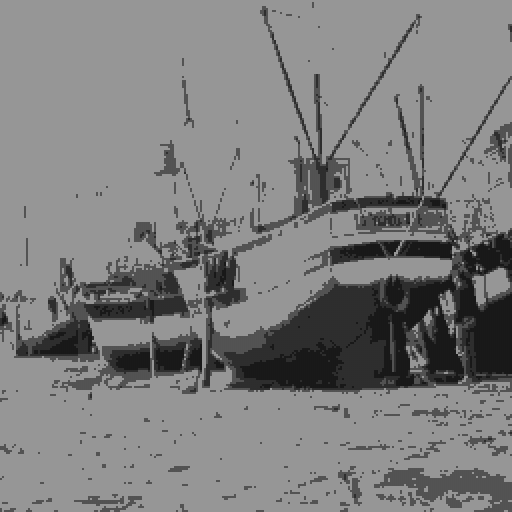
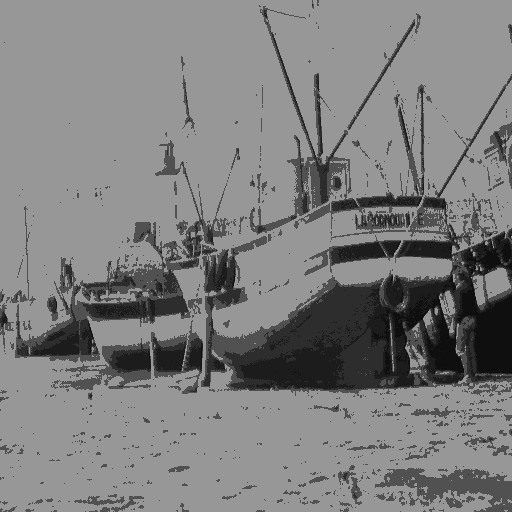
ratio

diff --git a/compress.py b/compress.py
@@ -163,10 +163,46 @@ def compress(matrix, vector_x, vector_y, codewords):
             if distance<min_distance:
                 min_distance=distance
                 closest_binary=binary
+        
                 
         compressed_data+=closest_binary
+    height = len(matrix)
+    width = len(matrix[0])
 
-    return compressed_data,code_binary,((vector_x * vector_y * 8) / num_bits)
+    compression_ratio = compress_ratio(
+    height,
+    width,
+    vector_x,
+    vector_y,
+    codewords_list,
+    vectors
+)
+
+    return compressed_data, code_binary, compression_ratio
+
+    
+
+
+def compress_ratio(height, width, vector_x, vector_y, codewords_list, vectors):
+
+    original_size = height * width * 8
+
+    number_of_vectors = len(vectors)
+
+    actual_codewords = len(codewords_list)
+
+    num_bits = max(1, (actual_codewords - 1).bit_length())
+
+    labels_size = number_of_vectors * num_bits
+
+    codebook_size = actual_codewords * vector_x * vector_y * 8
+
+    compressed_size = labels_size + codebook_size
+
+    compression_ratio = original_size / compressed_size
+
+    return compression_ratio
+
 
    
 
